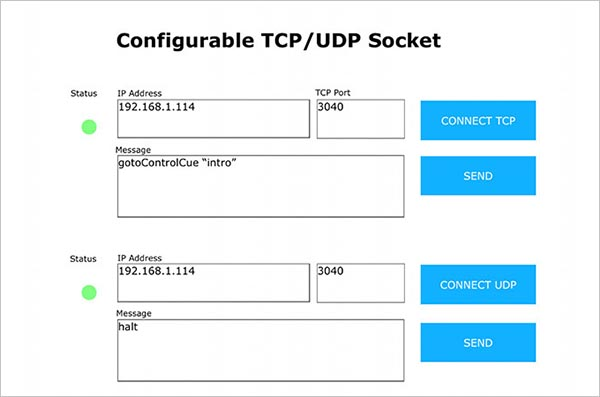
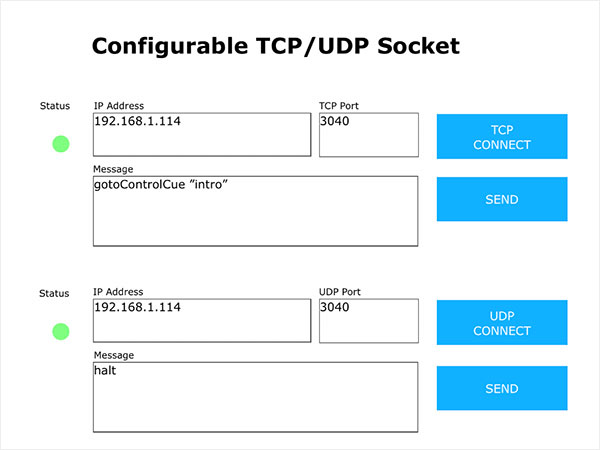
UI Text Update
Updated UI Text to better display their port type (TCP/UDP)

diff --git a/README.md b/README.md
@@ -8,7 +8,7 @@ This sample project demonstrates the flexibility of iViewer platform which allow
 
 The module in this project contains minimal functions and remain as a working sample so it doesn't include other methods that you may find useful. Such as checking for a valid IP address input, sending HEX payload instead of ASCII or displaying the response through the feedback system.
 
-## Procedure
+## Usage
 - Upload the project to a mobile device.
 - Enter the IP address and port number of the remote device.
 - Once connected, the status will show either green (connected) or red (disconnected).
